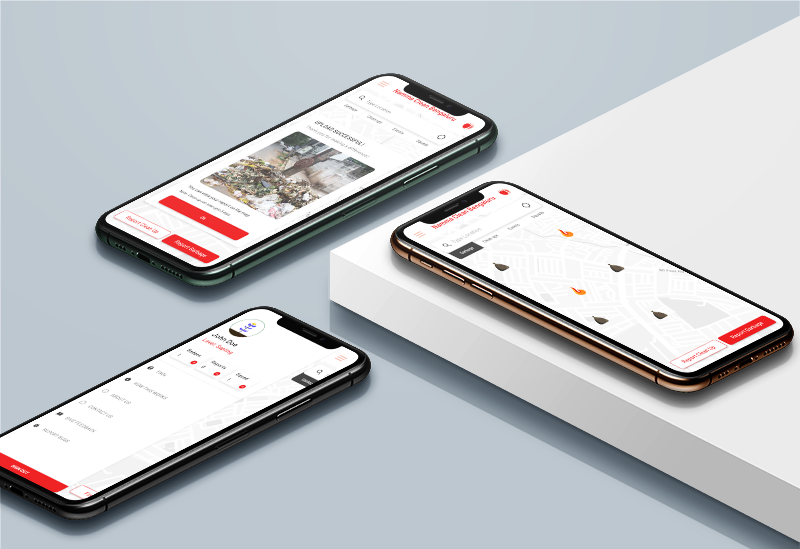
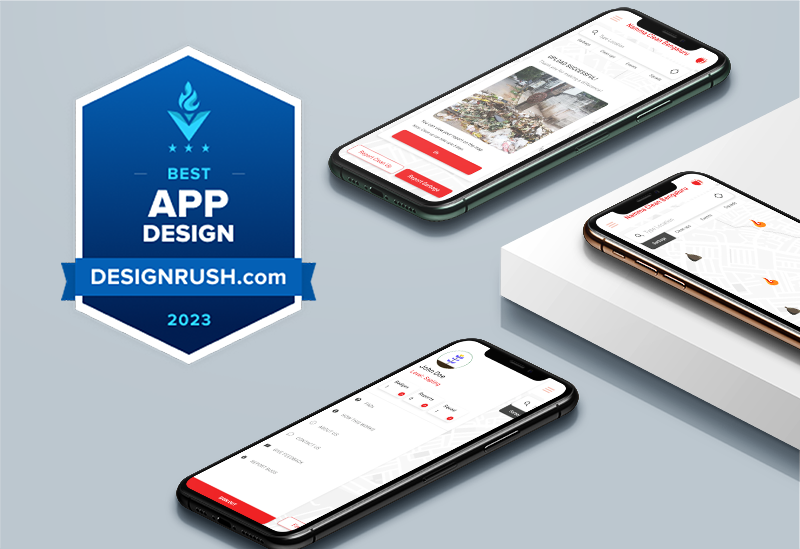
Design badge & link added for DesignRush Award + Minor Language change on Homepage

diff --git a/case-studies/clean-bng.html b/case-studies/clean-bng.html
@@ -75,6 +75,9 @@
             <div class="col-lg-12">
                 <h3>Namma Clean Bengaluru</h3>
                 <h4><br>Empowering citizens and government bodies to keep their city clean together.</h4>
+                <p>🏆 Featured in <a class="btn btn-tertiary" style="padding: 0; margin-bottom: 0; margin-top: 0"
+                                     href="https://www.designrush.com/best-designs/apps"
+                                     target="_blank">The Best Bright Color App Designs by Design Rush</a>.</p>
                 <p>Client: Jhatkaa (2021 Project)</p>
             </div>
         </div>

diff --git a/index.html b/index.html
@@ -115,7 +115,7 @@
     <div class="container" style="align-items: center;">
         <div class="row">
             <div class="col-12 text-center">
-                <h2 class="section-title">Services</h2>
+                <h2 class="section-title">Expertise</h2>
             </div>
             <div class="col-md-3 mb-3 mb-md-0">
                 <div class="card shadow">
